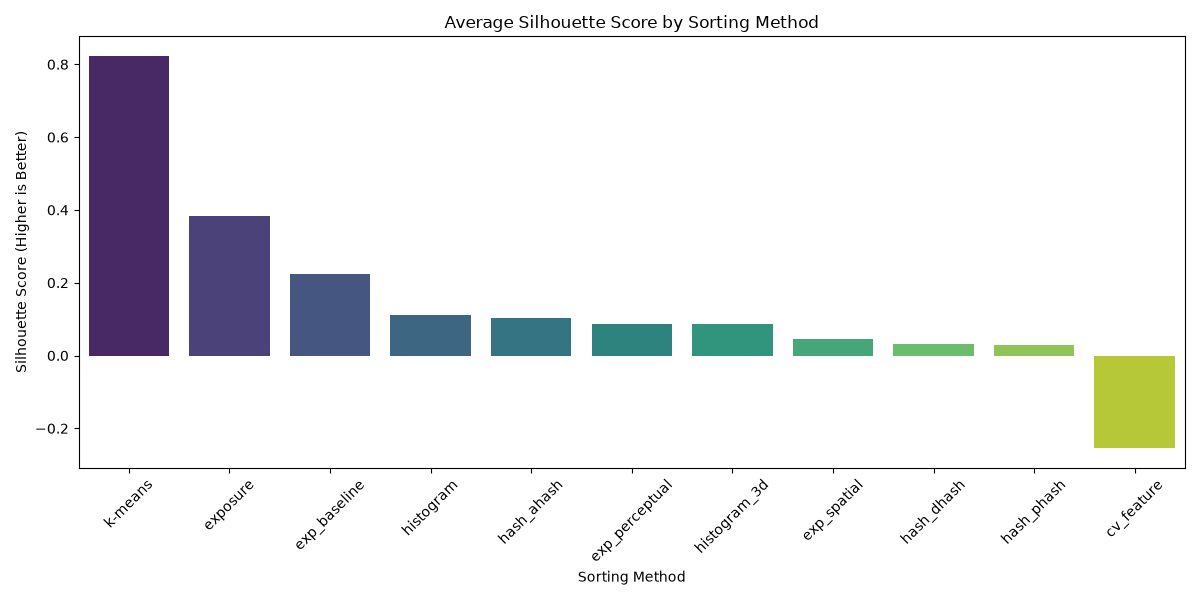
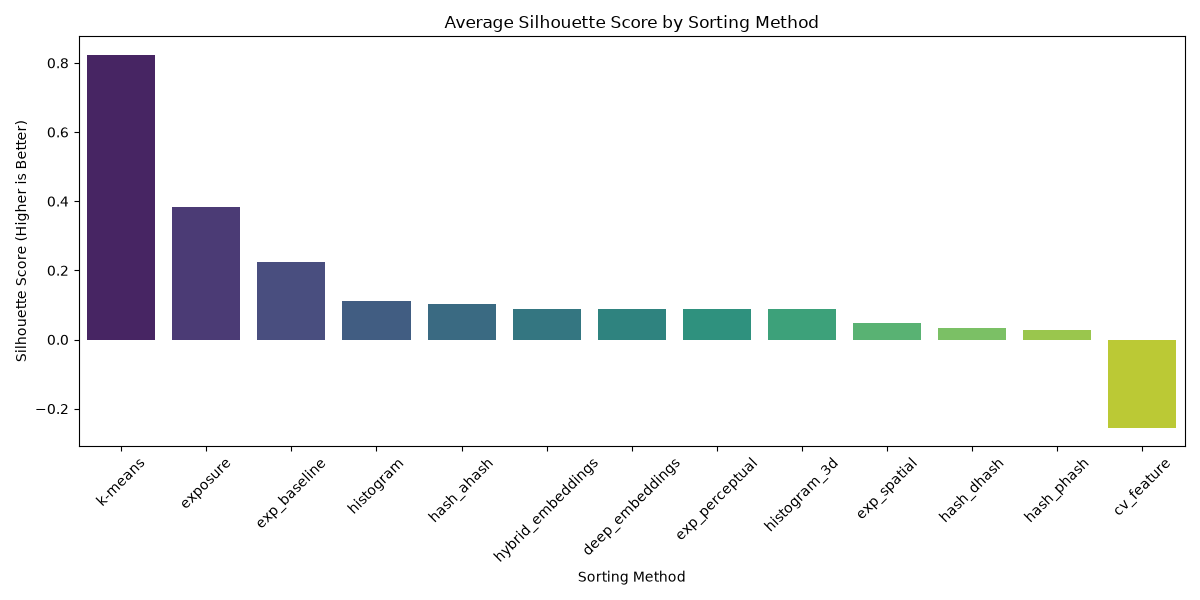
deep feature sorting testing and development

diff --git a/deep_feature_sorter.py b/deep_feature_sorter.py
@@ -1,0 +1,159 @@
+import logging
+import numpy as np
+import cv2
+import torch
+from pathlib import Path
+from typing import Tuple, Optional, List
+from sentence_transformers import SentenceTransformer
+from framework import (
+    BaseFeatureExtractor, 
+    KMeansClusterer,
+    AgglomerativeClusterer,
+    MAX_ANALYSIS_SIZE,
+    common_options,
+    run_sorting_pipeline
+)
+
+# --- Logging Setup ---
+logger = logging.getLogger("color-sorter")
+
+class DeepFeatureExtractor(BaseFeatureExtractor):
+    """
+    Extracts semantic embeddings using a pre-trained CLIP model.
+    Model: clip-ViT-B-32 via sentence-transformers.
+    """
+    def __init__(self, model_name: str = 'clip-ViT-B-32'):
+        self.model_name = model_name
+        # Load model once during initialization
+        self.device = 'cuda' # if torch.cuda.is_available() else 'cuda'
+        logger.info(f"Loading deep learning model: {model_name} on {self.device}...")
+        self.model = SentenceTransformer(model_name, device=self.device)
+        
+    def get_centroid_name(self, centroid: np.ndarray) -> str:
+        return "semantic_feature"
+
+    def extract(self, image: np.ndarray) -> np.ndarray:
+        """
+        Extracts a 512D embedding from a single image.
+        """
+        return self.extract_batch([image])[0]
+
+    def extract_batch(self, images: List[np.ndarray]) -> np.ndarray:
+        """
+        Extracts embeddings for a batch of images.
+        """
+        processed_images = []
+        for img in images:
+            h, w = img.shape[:2]
+            if max(h, w) > 1024:
+                scale = 1024 / max(h, w)
+                img = cv2.resize(img, (int(w * scale), int(h * scale)), interpolation=cv2.INTER_AREA)
+            processed_images.append(img)
+
+        # Generate embeddings in batch
+        with torch.no_grad():
+            embeddings = self.model.encode(processed_images, batch_size=32, show_progress_bar=False)
+        
+        # Normalize each embedding to unit vector for Cosine Similarity
+        norms = np.linalg.norm(embeddings, axis=1, keepdims=True)
+        embeddings = np.divide(embeddings, norms, out=np.zeros_like(embeddings), where=norms != 0)
+            
+        return embeddings.astype(np.float32)
+
+class HybridFeatureExtractor(BaseFeatureExtractor):
+    """
+    Combines semantic deep embeddings with color histograms.
+    Weighting: 80% Deep / 20% Color.
+    """
+    def __init__(self, model_name: str = 'clip-ViT-B-32', bins: int = 8):
+        self.deep_extractor = DeepFeatureExtractor(model_name)
+        self.bins = bins
+
+    def get_centroid_name(self, centroid: np.ndarray) -> str:
+        return "hybrid_feature"
+
+    def _compute_lab_hist(self, image: np.ndarray) -> np.ndarray:
+        """Computes a normalized 1D CIELAB histogram."""
+        # Resize for consistency
+        h, w = image.shape[:2]
+        if max(h, w) > MAX_ANALYSIS_SIZE:
+            scale = MAX_ANALYSIS_SIZE / max(h, w)
+            image = cv2.resize(image, (int(w * scale), int(h * scale)), interpolation=cv2.INTER_AREA)
+            
+        img_lab = cv2.cvtColor(image, cv2.COLOR_RGB2Lab)
+        hists = []
+        for i in range(3):
+            hist = cv2.calcHist([img_lab], [i], None, [self.bins], [0, 256])
+            hists.append(hist.flatten())
+        
+        feat = np.concatenate(hists)
+        norm = np.sum(feat)
+        return feat / (norm + 1e-7)
+
+    def extract(self, image: np.ndarray) -> np.ndarray:
+        """Extracts a hybrid embedding for a single image."""
+        return self.extract_batch([image])[0]
+
+    def extract_batch(self, images: List[np.ndarray]) -> np.ndarray:
+        """Extracts hybrid embeddings for a batch of images."""
+        # 1. Get Deep Embeddings (Batch)
+        deep_feats = self.deep_extractor.extract_batch(images)
+        
+        # 2. Get Color Histograms (Batch)
+        color_feats = []
+        for img in images:
+            color_feats.append(self._compute_lab_hist(img))
+        color_feats = np.array(color_feats)
+        
+        # L2 normalize color features
+        color_norms = np.linalg.norm(color_feats, axis=1, keepdims=True)
+        color_feats = np.divide(color_feats, color_norms, out=np.zeros_like(color_feats), where=color_norms != 0)
+        
+        # 3. Apply Weighting (80/20)
+        weighted_deep = deep_feats * 0.8
+        weighted_color = color_feats * 0.2
+        
+        combined = np.concatenate([weighted_deep, weighted_color], axis=1)
+        
+        # Final normalization
+        final_norms = np.linalg.norm(combined, axis=1, keepdims=True)
+        combined = np.divide(combined, final_norms, out=np.zeros_like(combined), where=final_norms != 0)
+            
+        return combined.astype(np.float32)
+
+# --- CLI Implementation ---
+import click
+import multiprocessing as mp
+
+@click.command()
+@common_options()
+@click.option('--mode', type=click.Choice(['deep', 'hybrid']), default='deep', help='Feature extraction mode.')
+@click.option('--threshold', type=float, default=0.5, help='Distance threshold for Agglomerative Clustering.')
+def main(input_dir, output_dir, move, raw, verbose, mode, threshold):
+    """Sort images using Deep or Hybrid semantic features."""
+    
+    if mode == 'deep':
+        extractor = DeepFeatureExtractor()
+        title = "Deep Embedding Sorting"
+    else:
+        extractor = HybridFeatureExtractor()
+        title = "Hybrid Embedding Sorting"
+    
+    # Use Cosine similarity for embeddings
+    clusterer = AgglomerativeClusterer(threshold=threshold, metric='cosine')
+    
+    run_sorting_pipeline(
+        input_dir=input_dir,
+        output_dir=output_dir,
+        move=move,
+        raw=raw,
+        verbose=verbose,
+        extractor=extractor,
+        clusterer=clusterer,
+        title=title
+    )
+
+if __name__ == "__main__":
+    # Use 'spawn' for torch/multiprocessing compatibility
+    mp.set_start_method('spawn', force=True)
+    main()

diff --git a/metrics/evaluator.py b/metrics/evaluator.py
@@ -5,7 +5,10 @@ from typing import List, Dict, Any, Tuple, Optional
 from sklearn.metrics import silhouette_score, davies_bouldin_score
 
 import sys
+import logging
 from pathlib import Path
+
+logger = logging.getLogger("color-sorter")
 # Add project root to sys.path to allow imports from the root directory
 sys.path.append(str(Path(__file__).parent.parent))
 
@@ -26,6 +29,7 @@ from hash_sorter import AHashExtractor, DHashExtractor, PHashExtractor, HammingC
 from histogram_sorter import HistogramExtractor
 from histogram_sorter_3d import Histogram3DExtractor
 from histogram_experiment_sorter import HistogramExperimentExtractor, DistanceMatrixClusterer
+from deep_feature_sorter import DeepFeatureExtractor, HybridFeatureExtractor
 
 class SorterRegistry:
     """Registry to map sorter names to their respective components."""
@@ -43,6 +47,8 @@ class SorterRegistry:
         "exp_baseline": (HistogramExperimentExtractor, DistanceMatrixClusterer),
         "exp_perceptual": (HistogramExperimentExtractor, DistanceMatrixClusterer),
         "exp_spatial": (HistogramExperimentExtractor, DistanceMatrixClusterer),
+        "deep_embeddings": (DeepFeatureExtractor, AgglomerativeClusterer),
+        "hybrid_embeddings": (HybridFeatureExtractor, AgglomerativeClusterer),
     }
 
     @classmethod
@@ -106,24 +112,45 @@ def evaluate_sorter(
     # But we need the labels and features for silhouette/DB scores.
     
     # Re-implementing the core loop for metric extraction
-    from framework import process_single_image_worker
-    from concurrent.futures import ProcessPoolExecutor
+    from concurrent.futures import ThreadPoolExecutor
     from tqdm import tqdm
 
-    loader_class = loader.__class__
-    extractor_class = extractor.__class__
-    loader_params = getattr(loader, '__dict__', {}).copy()
-    extractor_params_inst = getattr(extractor, '__dict__', {}).copy()
+    def load_image(source):
+        try:
+            return loader.load(source)
+        except Exception as e:
+            logger.error(f"Error loading {source.path.name}: {e}")
+            return None
 
-    tasks = [(s, loader_class, loader_params, extractor_class, extractor_params_inst) for s in sources]
-    
     features = []
-    with ProcessPoolExecutor() as executor:
-        results = list(executor.map(process_single_image_worker, tasks))
+    if isinstance(extractor, (DeepFeatureExtractor, HybridFeatureExtractor)):
+        # Use batch processing for deep learning models to leverage GPU
+        batch_size = 32
+        for i in tqdm(range(0, len(sources), batch_size), desc="Extracting Features (Batched)"):
+            batch_sources = sources[i : i + batch_size]
+            batch_images = [img for s in batch_sources if (img := load_image(s)) is not None]
+            
+            if not batch_images:
+                continue
+                
+            try:
+                batch_feats = extractor.extract_batch(batch_images)
+                features.extend(batch_feats)
+            except Exception as e:
+                logger.error(f"Error processing batch starting at {i}: {e}")
+    else:
+        # Use ThreadPoolExecutor for lightweight traditional extractors
+        def thread_worker(source):
+            try:
+                img = loader.load(source)
+                return extractor.extract(img)
+            except Exception as e:
+                logger.error(f"Error processing {source.path.name}: {e}")
+                return None
 
-    for _, feat in results:
-        if feat is not None:
-            features.append(feat)
+        with ThreadPoolExecutor() as executor:
+            results = list(tqdm(executor.map(thread_worker, sources), total=len(sources), desc="Extracting Features"))
+            features = [f for f in results if f is not None]
     
     features_array = np.array(features)
     labels, centroids = clusterer.cluster(features_array)

diff --git a/framework.py b/framework.py
@@ -157,6 +157,10 @@ class BaseFeatureExtractor(ABC):
         """Extract a feature vector from the image."""
         pass
 
+    def extract_batch(self, images: List[np.ndarray]) -> np.ndarray:
+        """Extract feature vectors for a batch of images. Defaults to sequential extraction."""
+        return np.array([self.extract(img) for img in images])
+
     def get_centroid_name(self, centroid: np.ndarray) -> str:
         """
         Return a human-readable name for the centroid. 
@@ -215,23 +219,18 @@ class AgglomerativeClusterer(BaseClusterer):
 
 # --- Orchestration ---
 
-def process_single_image_worker(args) -> Tuple[ImageSource, Optional[np.ndarray]]:
+def load_image_worker(args) -> Tuple[ImageSource, Optional[np.ndarray]]:
     """
     Worker function for multiprocessing. 
-    args: (image_source, loader_class, loader_params, extractor_class, extractor_params)
+    args: (image_source, loader_class, loader_params)
     """
-    image_source, loader_class, loader_params, extractor_class, extractor_params = args
+    image_source, loader_class, loader_params = args
     try:
-        # Instantiate loader and extractor inside worker to avoid pickling issues
         loader = loader_class(**loader_params)
-        extractor = extractor_class(**extractor_params)
-        
         img = loader.load(image_source)
-        feature_vector = extractor.extract(img)
-        
-        return image_source, feature_vector
+        return image_source, img
     except Exception as e:
-        logger.error(f"Error processing {image_source.path.name}: {e}")
+        logger.error(f"Error loading {image_source.path.name}: {e}")
         return image_source, None
 
 class SortingFramework:
@@ -241,36 +240,34 @@ class SortingFramework:
         self.clusterer = clusterer
 
     def analyze_and_sort(self, sources: List[ImageSource], output_path: Optional[Path], move: bool = False):
-        # 1. Parallel Feature Extraction
+        # 1. Parallel Image Loading
         loader_class = self.loader.__class__
-        extractor_class = self.extractor.__class__
-        
-        # Extract parameters from the instances
         loader_params = getattr(self.loader, '__dict__', {}).copy()
-        extractor_params = getattr(self.extractor, '__dict__', {}).copy()
 
         tasks = []
         for source in sources:
-            tasks.append((source, loader_class, loader_params, extractor_class, extractor_params))
+            tasks.append((source, loader_class, loader_params))
 
-        features = []
+        loaded_images = []
         valid_sources = []
         
         with ProcessPoolExecutor() as executor:
-            results = list(tqdm(executor.map(process_single_image_worker, tasks), total=len(tasks), desc="Analyzing Palettes"))
+            results = list(tqdm(executor.map(load_image_worker, tasks), total=len(tasks), desc="Loading Images"))
 
-        for source, feat in results:
-            if feat is not None:
+        for source, img in results:
+            if img is not None:
                 valid_sources.append(source)
-                features.append(feat)
+                loaded_images.append(img)
             else:
-                tqdm.write(f"Warning: Could not process {source.path.name}")
+                tqdm.write(f"Warning: Could not load {source.path.name}")
 
-        if not features:
-            logger.error("No images could be analyzed.")
+        if not loaded_images:
+            logger.error("No images could be loaded.")
             return None, None
 
-        features_array = np.array(features)
+        # 2. Batch Feature Extraction (Main Process)
+        logger.info(f"Extracting features for {len(loaded_images)} images...")
+        features_array = self.extractor.extract_batch(loaded_images)
 
         # 2. Global Clustering
         logger.info("Clustering images into buckets...")

diff --git a/metrics/test_rig.py b/metrics/test_rig.py
@@ -2,6 +2,7 @@ import csv
 import click
 import itertools
 import sys
+import multiprocessing as mp
 from pathlib import Path
 from typing import List, Dict, Any
 
@@ -53,6 +54,14 @@ EXPERIMENTS = {
     "exp_spatial": {
         "config": ["spatial"],
         "metric": ["jsd"],
+        "threshold": [0.3, 0.5, 0.7]
+    },
+    "deep_embeddings": {
+        "metric": ["cosine"],
+        "threshold": [0.3, 0.5, 0.7]
+    },
+    "hybrid_embeddings": {
+        "metric": ["cosine"],
         "threshold": [0.3, 0.5, 0.7]
     }
 }
@@ -137,4 +146,9 @@ def main(input_dir, output_csv, raw, sorters):
     print(f"\nAll experiments complete. Results saved to {output_csv}")
 
 if __name__ == "__main__":
+    # Use 'spawn' to avoid CUDA re-initialization errors in multiprocessing
+    try:
+        mp.set_start_method('spawn', force=True)
+    except RuntimeError:
+        pass
     main()
